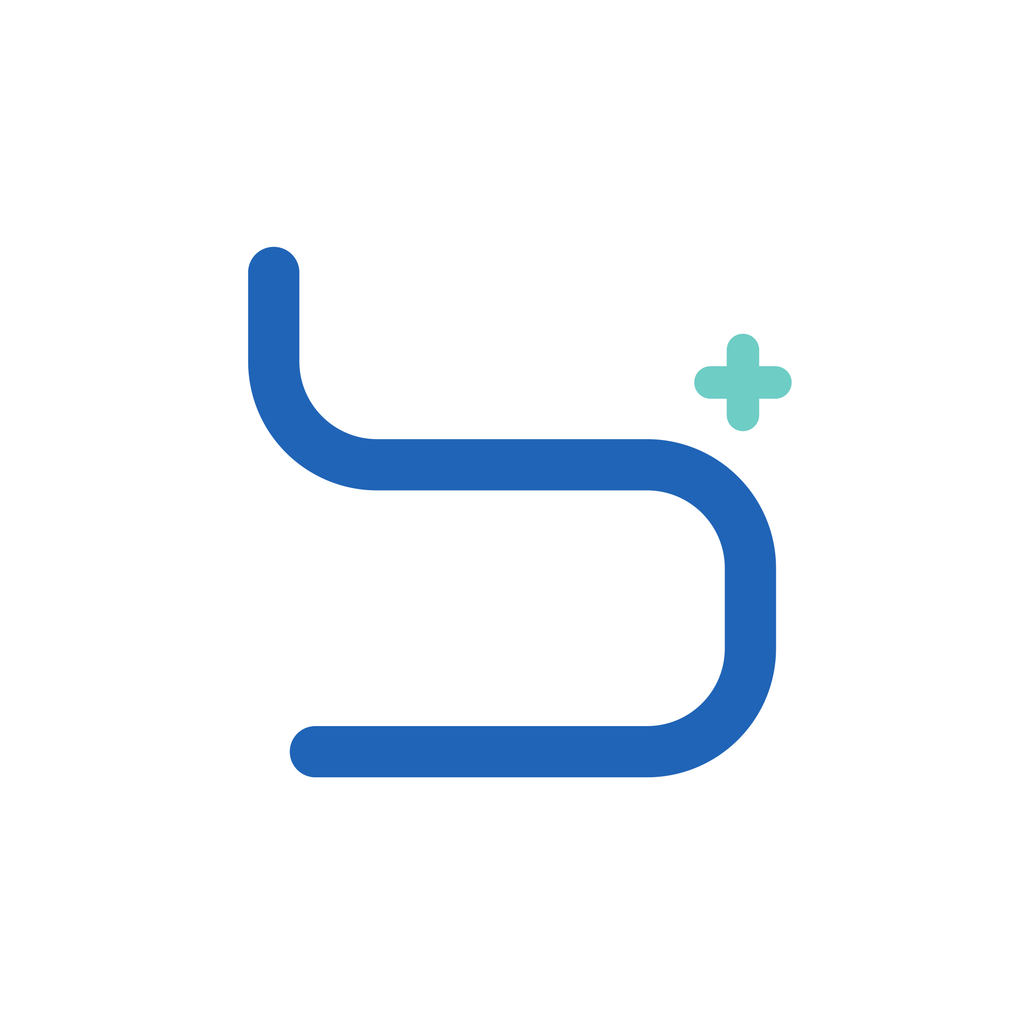
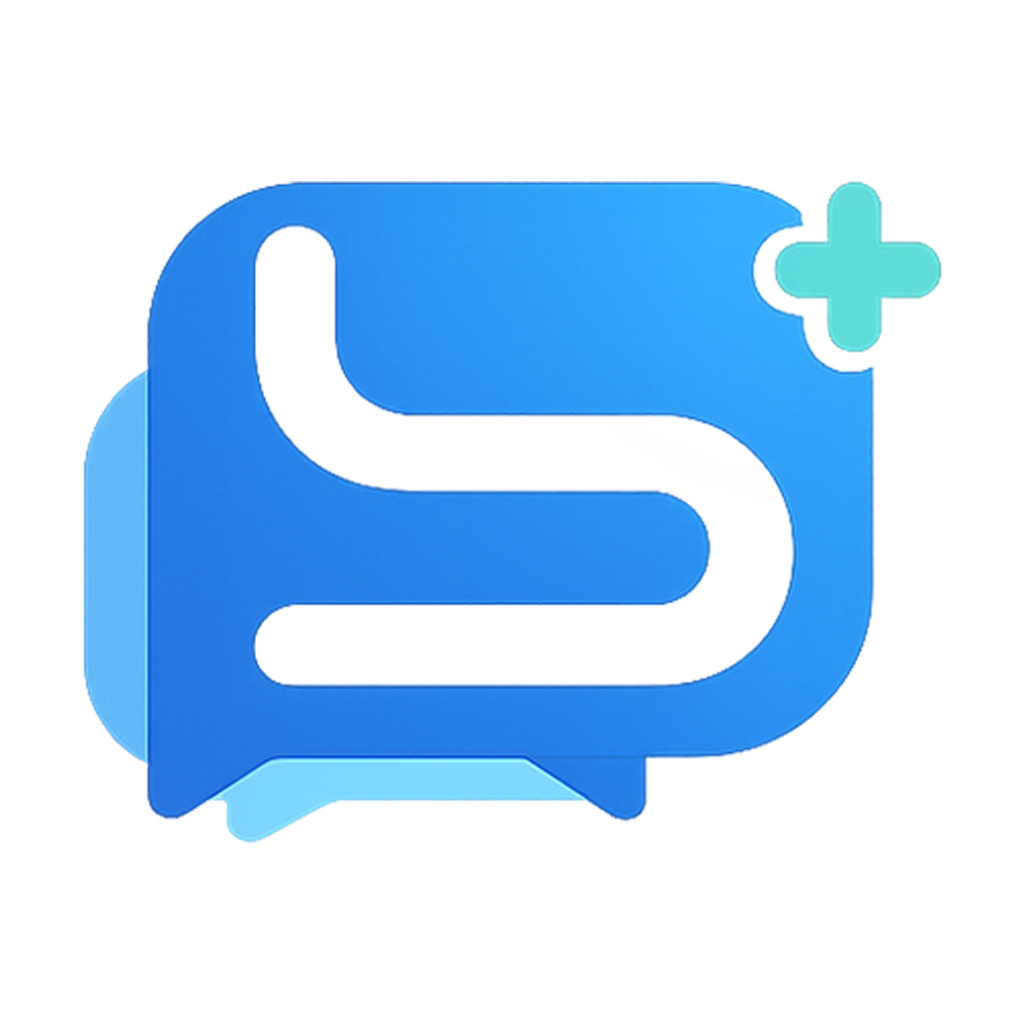
feat: menu konteks pesan (klik kanan / tahan), rebrand SANO Messenger, rapikan dashboard app
CRM web — aksi pesan (Balas/Teruskan/Edit/Hapus/Pilih):
- Ganti overlay hover jadi MENU KONTEKS: klik kanan di desktop, tahan
  (long-press 500ms) di HP/tablet. Overlay lama muncul tiap kursor lewat
  di atas bubble — kelihatan kuno, "berkedip" tanpa sengaja, dan di layar
  sentuh hover itu konsep yang tidak ada (dulu dipaksa long-press yang
  memunculkan overlay sama lalu auto-hilang 4 detik)
- Menu muncul di posisi kursor/jari (position: fixed) & dijaga tetap di
  dalam viewport, jadi tidak pernah kepotong seperti overlay lama
- Long-press dibatalkan kalau jari digeser >10px (itu scroll, bukan tahan)
  — pola sama dengan fix swipe ConversationItem mobile
- Tutup otomatis saat klik luar / Escape / scroll / resize. Scroll WAJIB
  ikut menutup karena menu pakai koordinat viewport
- Satu daftar aksi dipakai kedua jalur (klik kanan & long-press), bukan
  dua sumber kebenaran

App mobile:
- Hapus kartu "Total Nilai Order Bulan Ini" di dashboard — 2 angka besar
  berdampingan dengan definisi beda justru bikin bingung. Cukup kartu hero
  "Target Tim" yang memang SUDAH sinkron dgn CRM web (endpoint
  /analytics/sales-performance yang sama, dipakai TargetSalesWidget.jsx)
- Nama app: "SANO Messanger" -> "SANO Messenger" (typo)
- Semua aset ikon diganti logo baru. Logo sumber punya padding bawaan
  22,7%, jadi di-trim dulu ke artwork asli lalu di-scale per jenis ikon:
  * icon.png/splash 84% + diratakan putih (ikon iOS tidak boleh ber-alpha)
[…]

diff --git a/frontend/src/features/inbox/components/ChatWindow/MessageBubble.jsx b/frontend/src/features/inbox/components/ChatWindow/MessageBubble.jsx
@@ -221,29 +221,51 @@ function MessageBubbleBase({
   message: m, conversationId, isGroup, onReply, onForward, onEdit, onJumpToReply, highlighted, onRetry, onOpenMedia,
   onDeleteLocal, onDeleteEveryone, onEnterSelection, selectionMode, selected, onToggleSelect,
 }) {
-  const [hovered, setHovered] = useState(false);
+  // Revisi 28 Jul 2026 — GANTI POLA INTERAKSI: dulu aksi pesan (Balas/
+  // Teruskan/Edit/Hapus/Pilih) muncul sebagai overlay mengambang begitu
+  // KURSOR LEWAT di atas bubble (`hovered`). Masalahnya: (a) kelihatan
+  // kuno & "berkedip" tiap kursor lewat tanpa sengaja, (b) di layar sentuh
+  // hover itu konsep yang tidak ada, jadi dulu dipaksa pakai long-press yang
+  // menampilkan overlay yang SAMA lalu auto-hilang setelah 4 detik, (c)
+  // overlay-nya menumpuk di atas bubble & sering ketutup/kepotong.
+  //
+  // Sekarang: MENU KONTEKS sungguhan — klik-kanan di desktop,
+  // tahan (long-press) di HP/tablet. Menu muncul DI POSISI kursor/jari
+  // (position: fixed), bukan menempel di atas bubble, jadi tidak pernah
+  // kepotong dan tidak pernah muncul tanpa diminta.
+  const [menuPos, setMenuPos] = useState(null); // { x, y } | null
   const longPressTimerRef = useRef(null);
+  const touchStartRef = useRef(null);
   const rowRef = useRef(null);
+  const menuRef = useRef(null);
 
-  // BUG (fix): `hovered` cuma di-toggle lewat onMouseEnter/onMouseLeave —
-  // di trackpad/layar sentuh, mouseleave TIDAK SELALU terpanggil (misal
-  // scroll-drag lewat sentuhan, atau tap cepat lalu langsung geser layar),
-  // jadi msg-action-bar bisa nyangkut kelihatan terus di atas bubble padahal
-  // cursor sudah pindah. Safety net: begitu hovered=true, pasang listener
-  // level dokumen — klik/sentuh APA PUN di luar row ini langsung tutup,
-  // terlepas dari kenapa mouseleave/touchend sebelumnya gagal.
+  const closeMenu = () => setMenuPos(null);
+
+  // Tutup menu saat klik/sentuh di luar, scroll, resize, atau tekan Escape.
+  // Scroll WAJIB ikut menutup: menu pakai position fixed (koordinat viewport),
+  // jadi kalau daftar pesan di-scroll sementara menu terbuka, menu akan
+  // "menggantung" di tempat yang tidak lagi berkaitan dengan bubble-nya.
   useEffect(() => {
-    if (!hovered) return;
-    function handleOutside(e) {
-      if (rowRef.current && !rowRef.current.contains(e.target)) setHovered(false);
+    if (!menuPos) return;
+    function onOutside(e) {
+      if (menuRef.current && !menuRef.current.contains(e.target)) closeMenu();
     }
-    document.addEventListener("mousedown", handleOutside);
-    document.addEventListener("touchstart", handleOutside);
+    function onKey(e) { if (e.key === "Escape") closeMenu(); }
+    document.addEventListener("mousedown", onOutside);
+    document.addEventListener("touchstart", onOutside);
+    document.addEventListener("keydown", onKey);
+    // capture:true — event scroll tidak "bubble", jadi listener di document
+    // tanpa capture TIDAK akan kena scroll dari container pesan di dalamnya.
+    document.addEventListener("scroll", closeMenu, true);
+    window.addEventListener("resize", closeMenu);
     return () => {
-      document.removeEventListener("mousedown", handleOutside);
-      document.removeEventListener("touchstart", handleOutside);
+      document.removeEventListener("mousedown", onOutside);
+      document.removeEventListener("touchstart", onOutside);
+      document.removeEventListener("keydown", onKey);
+      document.removeEventListener("scroll", closeMenu, true);
+      window.removeEventListener("resize", closeMenu);
     };
-  }, [hovered]);
+  }, [menuPos]);
 
   const isOut     = m.direction === "OUTBOUND";
   const isSending = m.status === "sending";
@@ -262,13 +284,13 @@ function MessageBubbleBase({
     e.stopPropagation();
     if (!confirm("Pesan ini akan dihapus dari CRM (tidak menghapus dari WhatsApp pelanggan). Lanjutkan?")) return;
     onDeleteLocal(m);
-    setHovered(false);
+    closeMenu();
   }
   function handleDeleteEveryoneClick(e) {
     e.stopPropagation();
     if (!confirm("Pesan ini akan dihapus dari WhatsApp pelanggan juga. Lanjutkan?")) return;
     onDeleteEveryone(m);
-    setHovered(false);
+    closeMenu();
   }
   const isStructured = STRUCTURED_TYPES.has(m.mediaType);
   const structuredData = isStructured ? parseStructuredContent(m.mediaType, m.content) : null;
@@ -283,24 +305,75 @@ function MessageBubbleBase({
   const pastedMapsLocation = text && !hasMedia ? extractMapsLocation(text) : null;
   const isUnsupportedType = text === UNSUPPORTED_PLACEHOLDER;
 
-  function handleTouchStart() {
+  // Menu tidak masuk akal (dan aksinya tidak valid) untuk pesan yang masih
+  // terkirim, gagal, sudah dihapus, atau saat mode pilih-banyak aktif.
+  const menuEnabled = !selectionMode && !isSending && !isFailed && !isRevoked;
+
+  // Jaga menu tetap di dalam viewport — kalau diklik dekat tepi kanan/bawah,
+  // koordinat mentah akan membuat menu terpotong keluar layar.
+  function openMenuAt(clientX, clientY) {
+    const MENU_W = 210, MENU_H = 250, PAD = 8;
+    const x = Math.min(clientX, window.innerWidth  - MENU_W - PAD);
+    const y = Math.min(clientY, window.innerHeight - MENU_H - PAD);
+    setMenuPos({ x: Math.max(PAD, x), y: Math.max(PAD, y) });
+  }
+
+  // Desktop: klik kanan. preventDefault supaya menu konteks browser tidak
+  // ikut muncul menutupi menu kita.
+  function handleContextMenu(e) {
+    if (!menuEnabled) return;
+    e.preventDefault();
+    openMenuAt(e.clientX, e.clientY);
+  }
+
+  // HP/tablet: tahan ~500ms. Posisi diambil dari titik sentuh AWAL (bukan
+  // posisi saat timer menyala) supaya menu muncul tepat di bawah jari.
+  // Digeser >10px = user sedang scroll, BUKAN menahan → batalkan; tanpa
+  // ambang ini menu ikut muncul tiap kali scroll pelan (persis keluhan
+  // "swipe kepencet" yang sudah diperbaiki di ConversationItem mobile).
+  function handleTouchStart(e) {
+    if (!menuEnabled) return;
+    const t = e.touches[0];
+    touchStartRef.current = { x: t.clientX, y: t.clientY };
     longPressTimerRef.current = setTimeout(() => {
-      setHovered(true);
-      setTimeout(() => setHovered(false), 4000);
-    }, 600);
+      openMenuAt(t.clientX, t.clientY);
+    }, 500);
+  }
+  function handleTouchMove(e) {
+    const start = touchStartRef.current;
+    if (!start) return;
+    const t = e.touches[0];
+    if (Math.abs(t.clientX - start.x) > 10 || Math.abs(t.clientY - start.y) > 10) {
+      clearTimeout(longPressTimerRef.current);
+    }
   }
   function handleTouchEnd() { clearTimeout(longPressTimerRef.current); }
+  // Bersihkan timer kalau komponen di-unmount saat jari masih menahan
+  // (mis. daftar pesan di-recycle/berpindah percakapan) — kalau tidak,
+  // setMenuPos dipanggil pada komponen yang sudah tidak ada.
+  useEffect(() => () => clearTimeout(longPressTimerRef.current), []);
+
+  // Satu daftar aksi, dipakai untuk menu klik-kanan MAUPUN long-press —
+  // tidak ada dua sumber kebenaran daftar aksi.
+  const actions = [
+    onReply       && { key: "reply",   label: "Balas",             Icon: Reply,      onClick: () => onReply(m) },
+    onForward     && { key: "forward", label: "Teruskan",          Icon: Forward,    onClick: () => onForward(m) },
+    canEdit       && { key: "edit",    label: "Edit",              Icon: Pencil,     onClick: () => onEdit(m) },
+    onEnterSelection && { key: "select", label: "Pilih",           Icon: CheckSquare, onClick: () => onEnterSelection(m) },
+    canDeleteLocal && { key: "del-local", label: "Hapus untuk Saya", Icon: Trash2, onClick: null, raw: handleDeleteLocalClick },
+    canDeleteEveryone && { key: "del-all", label: "Hapus untuk Semua", Icon: Trash2, onClick: null, raw: handleDeleteEveryoneClick, danger: true },
+  ].filter(Boolean);
 
   return (
     <div
       ref={rowRef}
       className="msg-row"
       style={{ display: "flex", flexDirection: "row", alignItems: "center", width: "100%", gap: 8 }}
-      onMouseEnter={() => setHovered(true)}
-      onMouseLeave={() => setHovered(false)}
+      onContextMenu={handleContextMenu}
       onTouchStart={handleTouchStart}
       onTouchEnd={handleTouchEnd}
-      onTouchMove={() => clearTimeout(longPressTimerRef.current)}
+      onTouchMove={handleTouchMove}
+      onTouchCancel={handleTouchEnd}
     >
       {/* Checkbox mode pilih (multi-select) — SELALU di ujung kiri layar
           (bukan cuma "sebelah kiri bubble"), sama seperti WhatsApp asli.
@@ -320,38 +393,33 @@ function MessageBubbleBase({
         style={{ display: "flex", flexDirection: "column", alignItems: isOut ? "flex-end" : "flex-start", flex: 1, minWidth: 0, cursor: selectionMode ? "pointer" : "default" }}
         onClick={selectionMode ? () => onToggleSelect(m) : undefined}
       >
-      {hovered && !selectionMode && !isSending && !isFailed && !isRevoked && (
-        <div className="msg-action-bar">
-          {onReply && (
-            <button onClick={(e) => { e.stopPropagation(); onReply(m); setHovered(false); }} title="Balas">
-              <Reply size={14} />
+      {/* Menu konteks — klik kanan (desktop) / tahan (HP-tablet). position
+          fixed di koordinat kursor/jari, dirender di dalam row ini (bukan
+          portal) karena listener "klik di luar" di atas mengandalkan
+          menuRef.contains(). */}
+      {menuPos && actions.length > 0 && (
+        <div
+          ref={menuRef}
+          className="msg-context-menu"
+          style={{ left: menuPos.x, top: menuPos.y }}
+          role="menu"
+          // Klik di dalam menu jangan menembus ke row (row punya onClick
+          // toggle-select saat mode pilih aktif).
+          onClick={(e) => e.stopPropagation()}
+          onContextMenu={(e) => e.preventDefault()}
+        >
+          {actions.map(({ key, label, Icon, onClick, raw, danger }) => (
+            <button
+              key={key}
+              type="button"
+              role="menuitem"
+              className={danger ? "danger" : undefined}
+              onClick={raw ? raw : (e) => { e.stopPropagation(); onClick(); closeMenu(); }}
+            >
+              <Icon size={14} />
+              <span>{label}</span>
             </button>
-          )}
-          {onForward && (
-            <button onClick={(e) => { e.stopPropagation(); onForward(m); setHovered(false); }} title="Teruskan">
-              <Forward size={14} />
-            </button>
-          )}
-          {canEdit && (
-            <button onClick={(e) => { e.stopPropagation(); onEdit(m); setHovered(false); }} title="Edit">
-              <Pencil size={14} />
-            </button>
-          )}
-          {canDeleteLocal && (
-            <button onClick={handleDeleteLocalClick} title="Hapus untuk Saya">
-              <Trash2 size={14} />
-            </button>
-          )}
-          {canDeleteEveryone && (
-            <button onClick={handleDeleteEveryoneClick} title="Hapus untuk Semua">
-              <Trash2 size={14} color="var(--danger, #dc2626)" />
-            </button>
-          )}
-          {onEnterSelection && (
-            <button onClick={(e) => { e.stopPropagation(); onEnterSelection(m); setHovered(false); }} title="Pilih">
-              <CheckSquare size={14} />
-            </button>
-          )}
+          ))}
         </div>
       )}
 

diff --git a/mobile/src/screens/HomeScreen.js b/mobile/src/screens/HomeScreen.js
@@ -64,7 +64,6 @@ export default function HomeScreen({ navigation }) {
   const [myConvCount, setMyConvCount] = useState(0);
   const [needsAction, setNeedsAction] = useState([]);
   const [sessionDist, setSessionDist] = useState([]);
-  const [overviewTotal, setOverviewTotal] = useState(null);
 
   const load = useCallback(async (silent = false) => {
     if (!silent) setLoading(true);
@@ -72,25 +71,19 @@ export default function HomeScreen({ navigation }) {
     try {
       const now = new Date();
       const { from, to } = monthRangeStrings();
-      const [perfRows, csRows, unread, counts, convRes, sessionRows, overview] = await Promise.all([
+      const [perfRows, csRows, unread, counts, convRes, sessionRows] = await Promise.all([
         api.getSalesPerformance(now.getFullYear(), now.getMonth() + 1).catch(() => []),
         api.getCsPerformance(from, to).catch(() => []),
         api.getUnreadCount().catch(() => ({ count: 0 })),
         api.getConversationCounts().catch(() => ({})),
         api.getConversations({}).catch(() => ({ data: [] })),
         api.getSessionDistribution("today").catch(() => []),
-        // Total SEMUA order bulan ini (endpoint yang sama dengan kartu
-        // "Total Nilai" Dashboard.jsx web) — dipakai supaya "Target Tim" di
-        // bawah (yang sengaja cuma menghitung order ber-sales) tidak
-        // disalahartikan sebagai total omzet, lihat komentar di api.js.
-        api.getAnalyticsOverview({ from, to }).catch(() => null),
       ]);
       setPerf(perfRows || []);
       setCsPerf(csRows || []);
       setUnreadCount(unread?.count || 0);
       setMyConvCount(counts?.milikSaya || 0);
       setSessionDist(sessionRows || []);
-      setOverviewTotal(overview?.totalOrderValue ?? null);
 
       const top = (convRes?.data || [])
         .filter((c) => c.isUnanswered)
@@ -218,21 +211,15 @@ export default function HomeScreen({ navigation }) {
             )}
           </View>
 
-          {/* BUG (fix): sebelumnya HANYA angka "Target Tim" tampil di app —
-              itu cuma menghitung order dari customer yang SUDAH ada sales-
-              nya (demi akurasi target per-orang), jadi angkanya lebih
-              rendah dari kartu "Total Nilai" di Dashboard web (yang
-              menghitung SEMUA order). Terlihat seperti data "tidak sinkron"
-              padahal keduanya benar untuk tujuan masing-masing — baris ini
-              menampilkan angka yang SAMA persis dengan Dashboard web
-              (endpoint & rentang tanggal yang sama), supaya ada 1 angka
-              yang benar-benar bisa dibandingkan apples-to-apples. */}
-          {overviewTotal != null && (
-            <View style={styles.overviewNote}>
-              <Text style={styles.overviewNoteLabel}>Total Nilai Order Bulan Ini (semua, termasuk belum ada sales)</Text>
-              <Text style={styles.overviewNoteValue}>{formatRupiah(overviewTotal)}</Text>
-            </View>
-          )}
+          {/* Revisi 28 Jul 2026: kartu kedua "Total Nilai Order Bulan Ini"
+              (semua order, termasuk yang belum ada sales-nya) DIHAPUS —
+              2 angka besar berdampingan yang definisinya beda justru bikin
+              bingung, bukan memperjelas. Cukup SATU angka di kartu hero atas.
+              Angka "Target Tim" itu memang sudah sinkron dengan CRM web:
+              keduanya membaca endpoint yang SAMA (GET /analytics/
+              sales-performance) dan dipakai widget yang sama di web
+              (frontend/src/features/dashboard/components/TargetSalesWidget.jsx),
+              jadi tidak perlu angka pembanding kedua di sini. */}
 
           {perf.length > 0 && (
             <View style={styles.section}>
@@ -415,11 +402,6 @@ function createStyles(tokens) {
   },
   progressFill: { height: "100%", borderRadius: 4, backgroundColor: "#fff" },
   heroSub: { color: "rgba(255,255,255,0.9)", fontSize: 13, marginTop: 10 },
-  overviewNote: {
-    backgroundColor: tokens.color.card, borderRadius: tokens.radius.card, padding: 14, ...tokens.shadow.soft,
-  },
-  overviewNoteLabel: { fontSize: 11, color: tokens.color.textSecondary, lineHeight: 15 },
-  overviewNoteValue: { fontSize: 18, fontWeight: "700", color: tokens.color.textPrimary, marginTop: 4 },
   statsRow: { flexDirection: "row", gap: 10 },
   statCard: {
     flex: 1, backgroundColor: tokens.color.card, borderRadius: tokens.radius.card,

diff --git a/frontend/src/index.css b/frontend/src/index.css
@@ -2066,14 +2066,38 @@ input:focus, select:focus, textarea:focus {
 .bubble-forwarded { display: flex; align-items: center; gap: 3px; font-size: 11px; font-style: italic; opacity: 0.65; margin-bottom: 4px; }
 .msg-sender-name { font-size: 11px; font-weight: 700; color: #7c3aed; margin-bottom: 3px; }
 
-/* Action bar mini (Reply/Forward) saat hover/long-press */
-.msg-action-bar {
-  display: flex; gap: 4px; margin-bottom: 4px;
-  background: white; border: 1px solid var(--border); border-radius: 14px;
-  box-shadow: 0 2px 8px rgba(0,0,0,0.12); padding: 3px 8px;
+/* Menu konteks aksi pesan — klik kanan (desktop) / tahan (HP & tablet).
+   MENGGANTIKAN .msg-action-bar lama (overlay yang muncul saat kursor lewat
+   di atas bubble — lihat catatan panjang di MessageBubble.jsx). position
+   fixed: koordinatnya viewport (dari e.clientX/Y), jadi menu muncul tepat
+   di kursor/jari dan tidak pernah kepotong oleh container bubble. */
+.msg-context-menu {
+  position: fixed; z-index: 1100;
+  min-width: 190px; padding: 5px;
+  background: var(--bg-card, #fff);
+  border: 1px solid var(--border);
+  border-radius: 12px;
+  box-shadow: 0 8px 28px rgba(0,0,0,0.18);
+  animation: msgMenuIn 0.12s ease-out;
 }
-.msg-action-bar button { background: none; border: none; cursor: pointer; color: var(--text-muted); padding: 3px; border-radius: 50%; display: flex; align-items: center; transition: background 0.12s, color 0.12s; }
-.msg-action-bar button:hover { background: #f1f5f9; color: var(--color-primary); }
+@keyframes msgMenuIn {
+  from { opacity: 0; transform: scale(0.96); }
+  to   { opacity: 1; transform: scale(1); }
+}
+.msg-context-menu button {
+  display: flex; align-items: center; gap: 10px; width: 100%;
+  padding: 9px 12px; border: none; background: none; cursor: pointer;
+  font-size: 13.5px; color: var(--text-main); text-align: left;
+  border-radius: 8px; transition: background 0.1s;
+}
+.msg-context-menu button:hover { background: var(--bg-hover, #f1f5f9); }
+.msg-context-menu button.danger { color: var(--color-danger, #dc2626); }
+/* Cegah "tahan lalu muncul menu seleksi teks bawaan browser" bentrok dengan
+   long-press kita di layar sentuh — teks bubble tetap bisa dipilih di
+   desktop (pointer: fine), cuma di perangkat sentuh yang dimatikan. */
+@media (pointer: coarse) {
+  .msg-row { -webkit-touch-callout: none; -webkit-user-select: none; user-select: none; }
+}
 
 /* Checkbox mode pilih (multi-select) — selalu di ujung kiri (lihat MessageBubble.jsx) */
 .msg-select-checkbox {

diff --git a/mobile/src/api.js b/mobile/src/api.js
@@ -262,14 +262,6 @@ export const api = {
   getSalesPerformance: (year, month) =>
     request("/analytics/sales-performance" + buildQuery({ year, month })),
 
-  // Total nilai SEMUA order (endpoint SAMA yang dipakai kartu "Total Nilai"
-  // Dashboard.jsx web) — BEDA cakupan dari sales-performance di atas: yang
-  // ini menghitung SEMUA order dalam rentang tanggal, TIDAK peduli customer-
-  // nya sudah punya sales assigned atau belum. Dipakai HomeScreen.js untuk
-  // menampilkan angka yang benar-benar sama dengan web, supaya "Target Tim"
-  // (yang sengaja cuma menghitung order ber-sales, demi akurasi target
-  // per-orang) tidak disalahpahami sebagai total omzet perusahaan.
-  getAnalyticsOverview: (params) => request("/analytics/overview" + buildQuery(params)),
 
   // Performa CS per sales (chat ditangani + closingRate = RESOLVED/total —
   // definisi "conversion rate" yang SAMA dipakai Laporan.jsx web, lihat
